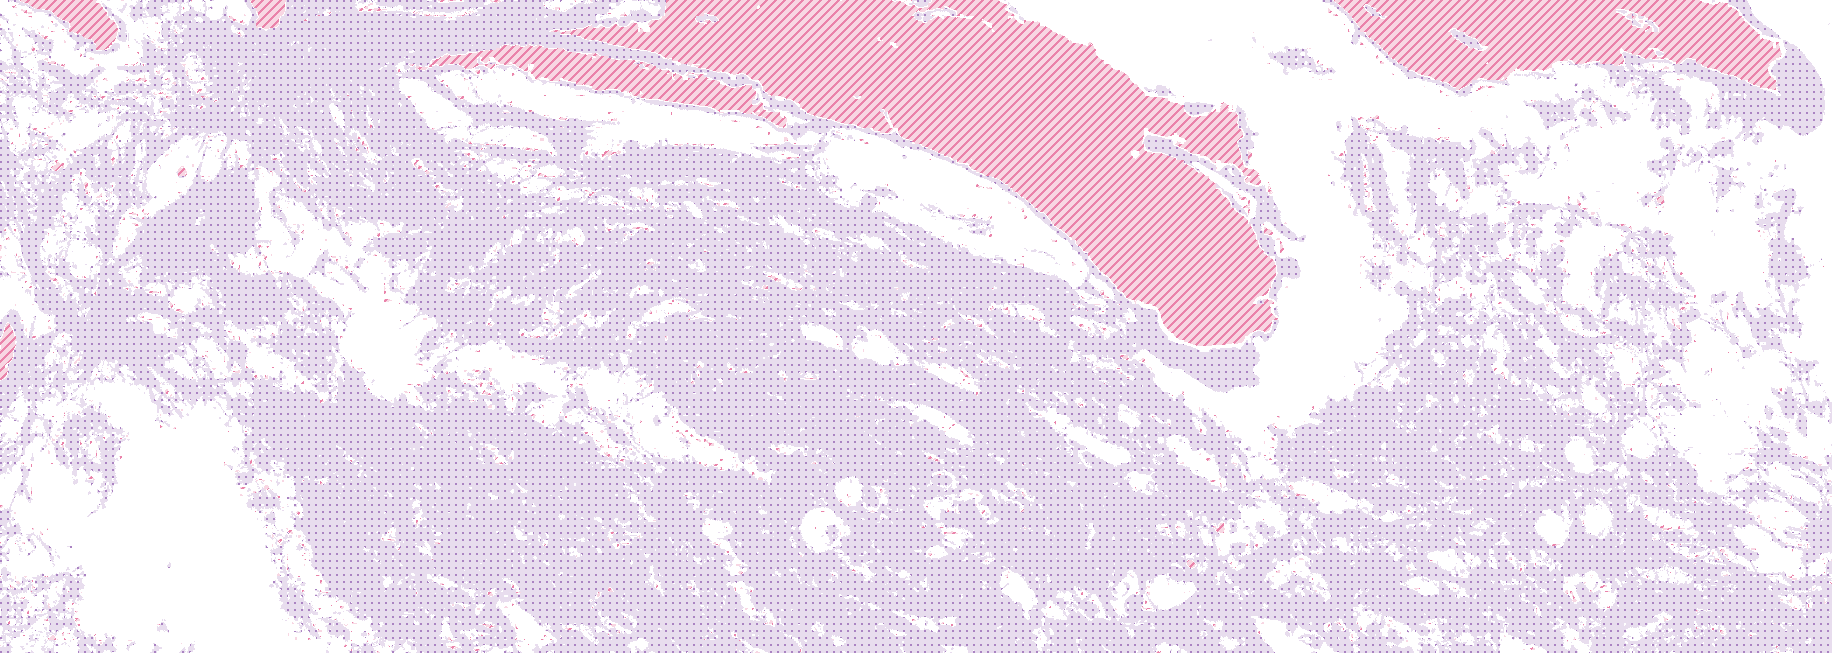
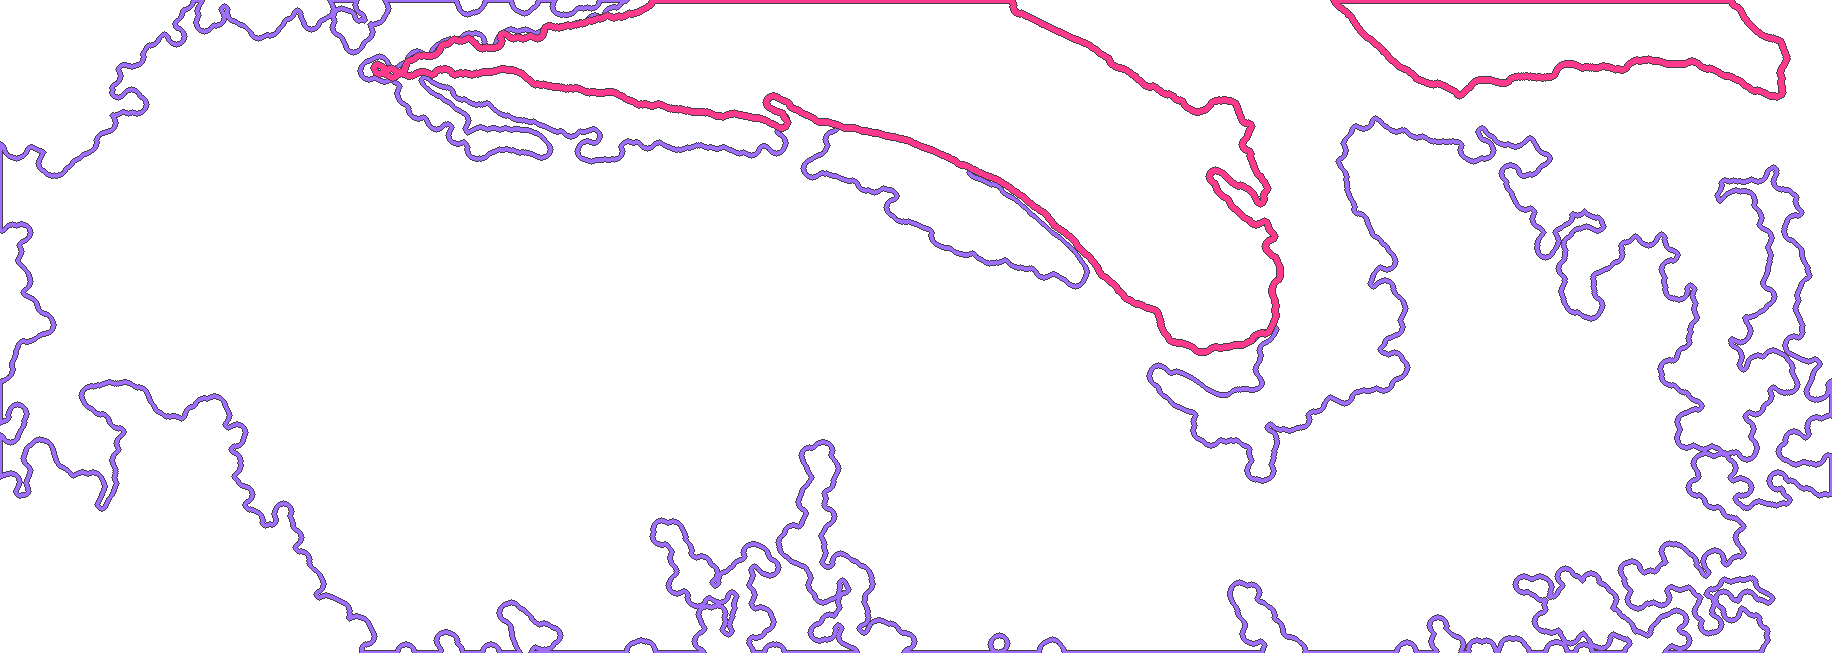
fix(biopsia-osea): contornos en vez de manchas, opacidad y aumento equivalente
Miriam: «las areas cuando pincho no se distinguen, los circulitos si». Tenia
razon: el overlay era un relleno translucido sobre una imagen ya saturada de
rosa y morado, asi que no se leia como capa. Los nucleos si, porque son lineas.

Ahora las regiones son CONTORNOS con halo oscuro, como los dibuja QuPath, y
solo de las estructuras mayores de 3.000 um2: el tejido se sigue viendo debajo
y la trabecula se distingue de un vistazo.

Ademas, dos cosas que un patologo espera y no habia:
 · control de OPACIDAD de las capas
 · el AUMENTO EQUIVALENTE (4x/10x/20x/40x), porque nadie piensa en «x3,4»
   sino en el objetivo que tendria puesto

diff --git a/app/pages/biopsia-osea.vue b/app/pages/biopsia-osea.vue
@@ -68,6 +68,14 @@ const cv = ref<HTMLCanvasElement | null>(null)
 const caja = ref<HTMLDivElement | null>(null)
 const medida = ref('—')
 const capas = reactive({ nucleos: false, regiones: true, reticula: false })
+const opacidad = ref(85)
+// Un patólogo no piensa en «×3,4»: piensa en el objetivo que tendría puesto.
+// 0,454 µm/px equivale a un 20x de escáner; el resto se deriva del zoom.
+const aumento = computed(() => {
+  const equiv = 20 * vistaEsc.value
+  return equiv >= 40 ? '40x' : equiv >= 20 ? '20x' : equiv >= 10 ? '10x' : '4x'
+})
+const vistaEsc = ref(1)
 
 let ctx: CanvasRenderingContext2D | null = null
 let img: HTMLImageElement, ovl: HTMLImageElement
@@ -102,7 +110,7 @@ function pinta() {
   ctx.setTransform(k, 0, 0, k, vista.x, vista.y)
   if (img?.complete) ctx.drawImage(img, 0, 0)
   if (capas.regiones && ovl?.complete) {
-    ctx.globalAlpha = 0.9
+    ctx.globalAlpha = opacidad.value / 100
     ctx.drawImage(ovl, 0, 0)
     ctx.globalAlpha = 1
   }
@@ -117,8 +125,8 @@ function pinta() {
   }
   if (capas.nucleos) {
     ctx.strokeStyle = '#28d1b8'
-    ctx.lineWidth = 1 / k
-    ctx.globalAlpha = 0.85
+    ctx.lineWidth = 1.2 / k
+    ctx.globalAlpha = opacidad.value / 100
     for (const n of D.value.nucleos.puntos) {
       ctx.beginPath()
       ctx.arc(n.x, n.y, Math.sqrt((n.a * PX.value * PX.value) / Math.PI), 0, 6.284)
@@ -176,6 +184,7 @@ let pellizco: { d: number; esc: number; cx: number; cy: number; p: { x: number; 
 
 function zoomA(nueva: number, cx: number, cy: number, p: { x: number; y: number }) {
   vista.esc = Math.min(14, Math.max(1, nueva))
+  vistaEsc.value = vista.esc
   const k1 = base() * vista.esc
   const r = cv.value!.getBoundingClientRect()
   vista.x = (cx - r.left) * devicePixelRatio - p.x * k1
@@ -238,7 +247,7 @@ function onKey(e: KeyboardEvent) {
     case 'ArrowDown': if (esperandoPunto) mueve(0, 1); else vista.y -= paso; break
     case '+': case '=': zoomA(vista.esc * 1.25, cx, cy, aImagen(cx, cy)); break
     case '-': case '_': zoomA(vista.esc / 1.25, cx, cy, aImagen(cx, cy)); break
-    case '0': vista.x = 0; vista.y = 0; vista.esc = 1; regla = null; cursor = null; esperandoPunto = 0; break
+    case '0': vista.x = 0; vista.y = 0; vista.esc = 1; vistaEsc.value = 1; regla = null; cursor = null; esperandoPunto = 0; break
     case 'm': case 'M':
       esperandoPunto = 1; cursor = { x: ANCHO.value / 2, y: ALTO.value / 2 }; regla = null
       medida.value = L('Marca el primer punto con Intro', 'Mark the first point with Enter'); break
@@ -253,7 +262,7 @@ function onKey(e: KeyboardEvent) {
   e.preventDefault(); pinta()
 }
 
-function reset() { vista.x = 0; vista.y = 0; vista.esc = 1; regla = null; cursor = null; esperandoPunto = 0; pinta() }
+function reset() { vista.x = 0; vista.y = 0; vista.esc = 1; vistaEsc.value = 1; regla = null; cursor = null; esperandoPunto = 0; pinta() }
 
 onMounted(() => {
   ctx = cv.value?.getContext('2d') ?? null
@@ -308,15 +317,21 @@ onBeforeUnmount(() => window.removeEventListener('resize', ajusta))
               {{ L('Retícula 100 µm', '100 µm grid') }}
             </button>
             <button @click="reset()">{{ L('Encuadre completo', 'Reset view') }}</button>
+            <label class="hist__op">
+              <span>{{ L('Opacidad', 'Opacity') }}</span>
+              <input v-model.number="opacidad" type="range" min="15" max="100" step="5" @input="pinta()">
+              <output>{{ opacidad }}%</output>
+            </label>
+            <span class="hist__aumento" :title="L('Aumento equivalente', 'Equivalent magnification')">{{ aumento }}</span>
           </div>
 
           <div class="hist__leyenda">
-            <span><i class="is-hueso" />{{ L('Matriz ósea, rayado diagonal', 'Bone matrix, diagonal hatch') }}</span>
-            <span><i class="is-celula" />{{ L('Masa celular, punteado', 'Cellular mass, dotted') }}</span>
+            <span><i class="is-hueso" />{{ L('Contorno de la matriz ósea', 'Bone matrix outline') }}</span>
+            <span><i class="is-celula" />{{ L('Contorno de la masa celular', 'Cellular mass outline') }}</span>
             <span><i class="is-nucleo" />{{ L('Núcleos segmentados', 'Segmented nuclei') }}</span>
             <span class="hist__leyenda-nota">{{ L(
-              'Cada capa lleva su propia trama además del color, para que se distingan sin depender del tono. Las regiones salen de deconvolver la tinción de la propia imagen (Ruifrok-Johnston, fondo por Macenko), no de un trazado a mano.',
-              'Each layer carries its own pattern as well as colour, so they can be told apart without relying on hue. The regions come from deconvolving the stain of the image itself (Ruifrok-Johnston, background by Macenko), not from hand tracing.') }}</span>
+              'Contornos, no manchas, para no tapar el tejido. Las regiones salen de deconvolver la tinción de la propia imagen (Ruifrok-Johnston, fondo por Macenko) y de quedarse solo con las estructuras mayores de 3.000 µm²; no hay trazado a mano.',
+              'Outlines rather than fills, so the tissue stays visible. The regions come from deconvolving the stain of the image itself (Ruifrok-Johnston, background by Macenko), keeping only structures above 3,000 µm²; nothing is hand traced.') }}</span>
           </div>
 
           <div class="hist__inset">
@@ -461,8 +476,8 @@ onBeforeUnmount(() => window.removeEventListener('resize', ajusta))
 .hist__barra button[aria-pressed="true"] { background: var(--color-miriam); border-color: var(--color-miriam); color: #fff; }
 .hist__leyenda { display: flex; flex-wrap: wrap; gap: .9rem; padding: .75rem .9rem; border-top: 1px solid color-mix(in srgb, var(--color-text) 12%, transparent); font-size: .82rem; color: var(--color-text-soft); }
 .hist__leyenda i { display: inline-block; width: 16px; height: 12px; border-radius: 2px; margin-right: .35rem; vertical-align: -2px; border: 1px solid currentColor; }
-.hist__leyenda i.is-hueso { background: #c0175c; color: #c0175c; }
-.hist__leyenda i.is-celula { background: #6a2f92; color: #6a2f92; }
+.hist__leyenda i.is-hueso { background: #ff3a8c; color: #ff3a8c; }
+.hist__leyenda i.is-celula { background: #a06eff; color: #a06eff; }
 .hist__leyenda i.is-nucleo { background: #0a6459; color: #0a6459; }
 .hist__leyenda-nota { flex-basis: 100%; font-size: .78rem; }
 .hist__inset { padding: .75rem .9rem; border-top: 1px solid color-mix(in srgb, var(--color-text) 12%, transparent); }
@@ -493,4 +508,8 @@ onBeforeUnmount(() => window.removeEventListener('resize', ajusta))
 .hist__genes { font-family: var(--font-mono); font-size: .8rem; flex: 1; }
 .hist__copias { font-family: var(--font-mono); font-size: .8rem; color: var(--color-text-soft); }
 .hist__genes-limpios { font-family: var(--font-mono); font-size: .8rem; margin: 0; color: var(--color-text-soft); }
+.hist__op { display: inline-flex; align-items: center; gap: .45rem; font-size: .78rem; color: var(--color-text-soft); padding: 0 .4rem; min-height: 44px; }
+.hist__op input { width: 92px; accent-color: var(--color-miriam); }
+.hist__op output { font-family: var(--font-mono); min-width: 3ch; }
+.hist__aumento { display: inline-flex; align-items: center; min-height: 44px; padding: 0 .7rem; font-family: var(--font-mono); font-size: .82rem; font-weight: 600; color: var(--color-miriam); background: color-mix(in srgb, var(--color-miriam) 10%, transparent); border-radius: var(--radius-btn, 6px); }
 </style>
